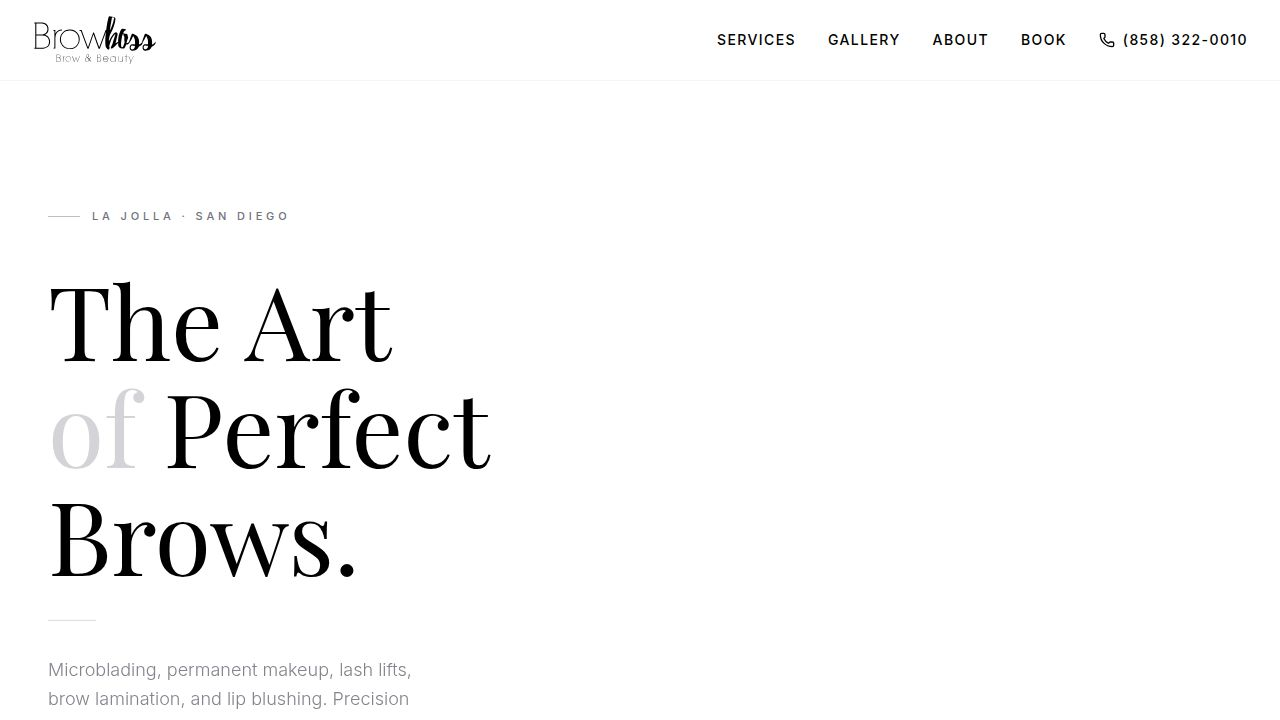
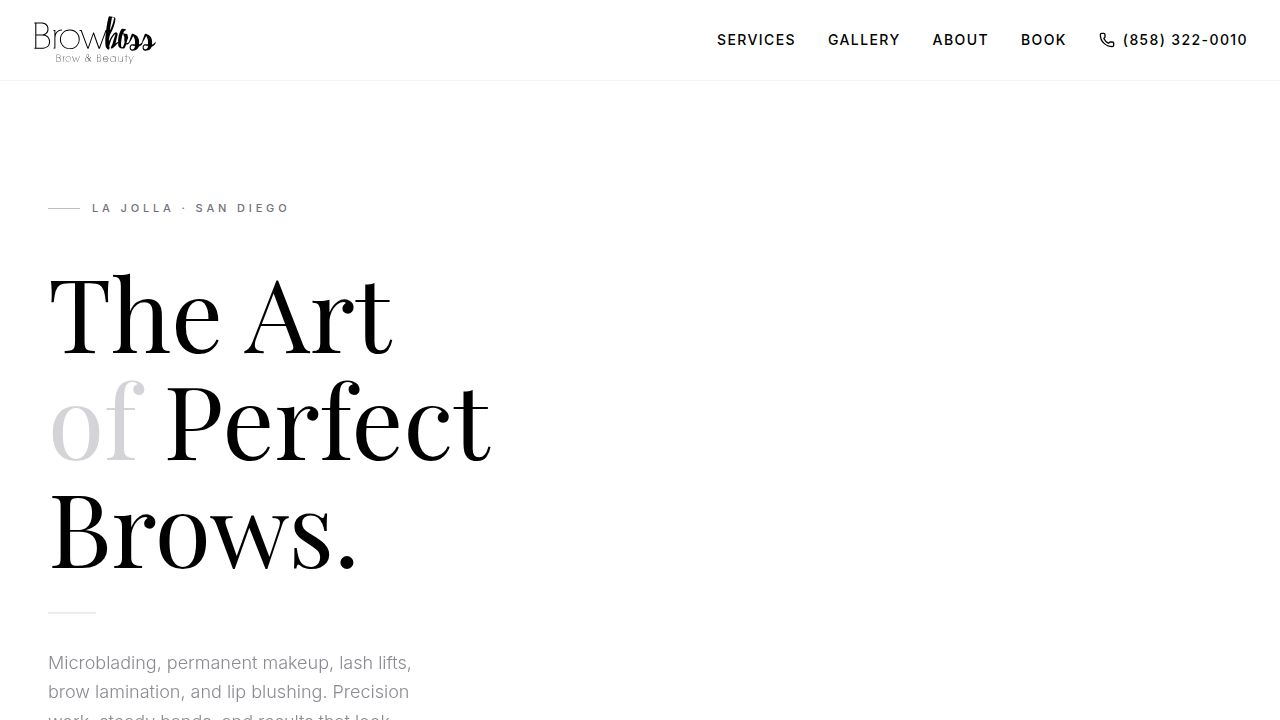
Adjust page spacing for a more compact and streamlined user experience
Refactors vertical spacing (padding and margins) across multiple sections of the Home page component, including Hero, Gallery, Quick Answers, Value Reframing, How It Works, Testimonials, Meet Leslie, Our Team, Before & After, and Booking Form.

Replit-Commit-Author: Agent
Replit-Commit-Session-Id: 6d369fb7-a3c6-4969-a9a1-9ee3432af596
Replit-Commit-Checkpoint-Type: full_checkpoint
Replit-Commit-Event-Id: 91043f61-a8aa-4c93-9887-f63268fadeda
Replit-Commit-Screenshot-Url: https://storage.googleapis.com/screenshot-production-us-central1/9047f072-fbae-419b-81c4-e96a671a53f7/6d369fb7-a3c6-4969-a9a1-9ee3432af596/75mzmba
Replit-Helium-Checkpoint-Created: true

diff --git a/artifacts/browboss/src/pages/Home.tsx b/artifacts/browboss/src/pages/Home.tsx
@@ -134,7 +134,7 @@ function HeroSection({ bookingUrl }: { bookingUrl: string }) {
   }, []);
 
   return (
-    <section className="relative min-h-[52vh] md:min-h-[calc(100dvh-80px)] flex items-center md:items-end overflow-hidden bg-white md:mt-[80px]" data-testid="hero-section">
+    <section className="relative min-h-[52vh] md:min-h-[calc(100dvh-72px)] flex items-center md:items-end overflow-hidden bg-white md:mt-[72px]" data-testid="hero-section">
 
       {/* ── MOBILE posters: static frames cycling ── */}
       <img
@@ -772,7 +772,7 @@ export default function Home() {
       </section>
 
       {/* Work Showcase — Vertical Video Reels */}
-      <section id="gallery" className="py-20 md:py-32 bg-white overflow-hidden border-t border-zinc-100">
+      <section id="gallery" className="py-14 md:py-20 bg-white overflow-hidden border-t border-zinc-100">
 
         {/* Header */}
         <div className="container mx-auto px-6 md:px-10 mb-10 md:mb-14">
@@ -895,7 +895,7 @@ export default function Home() {
       </section>
 
       {/* Quick Answers */}
-      <section className="py-20 md:py-28 bg-[#F5F1EC]">
+      <section className="py-14 md:py-20 bg-[#F5F1EC]">
         <div className="container mx-auto px-4 max-w-5xl">
           <motion.div
             initial="hidden"
@@ -949,7 +949,7 @@ export default function Home() {
       </section>
 
       {/* Value Reframing */}
-      <section className="py-24 md:py-32 bg-[#F5F1EC]">
+      <section className="py-16 md:py-24 bg-[#F5F1EC]">
         <div className="container mx-auto px-4">
           <div className="grid md:grid-cols-2 gap-16 items-center">
             <motion.div 
@@ -1001,14 +1001,14 @@ export default function Home() {
       </section>
 
       {/* How It Works */}
-      <section className="py-24 md:py-32 bg-white">
+      <section className="py-16 md:py-24 bg-white">
         <div className="container mx-auto px-4">
           <motion.div 
             initial="hidden"
             whileInView="visible"
             viewport={{ once: true, margin: "-100px" }}
             variants={fadeIn}
-            className="text-center mb-20"
+            className="text-center mb-12 md:mb-16"
           >
             <h2 className="text-4xl md:text-5xl font-serif mb-4">Your BrowBoss Experience</h2>
             <div className="w-12 h-px bg-black mx-auto"></div>
@@ -1041,14 +1041,14 @@ export default function Home() {
       </section>
 
       {/* Testimonials */}
-      <section className="py-24 md:py-32 bg-white border-t border-zinc-100" style={{ backgroundColor: "#FAFAF9" }}>
+      <section className="py-16 md:py-24 bg-white border-t border-zinc-100" style={{ backgroundColor: "#FAFAF9" }}>
         <div className="container mx-auto px-4">
           <motion.div 
             initial="hidden"
             whileInView="visible"
             viewport={{ once: true, margin: "-100px" }}
             variants={fadeIn}
-            className="text-center mb-20"
+            className="text-center mb-12 md:mb-16"
           >
             <p className="text-[10px] tracking-[0.35em] uppercase text-zinc-400 mb-3">Client Stories</p>
             <h2 className="text-4xl md:text-5xl font-serif text-black mb-4">Loved by Hundreds of Women Across San Diego</h2>
@@ -1154,7 +1154,7 @@ export default function Home() {
       </section>
 
       {/* Meet Leslie */}
-      <section id="about" className="py-24 md:py-32 bg-white">
+      <section id="about" className="py-16 md:py-24 bg-white">
         <div className="container mx-auto px-4">
           <div className="grid md:grid-cols-2 gap-16 items-center">
             <motion.div 
@@ -1202,14 +1202,14 @@ export default function Home() {
       </section>
 
       {/* Our Team */}
-      <section className="py-20 md:py-28 bg-zinc-50 border-t border-zinc-100">
+      <section className="py-14 md:py-20 bg-zinc-50 border-t border-zinc-100">
         <div className="container mx-auto px-4">
           <motion.div
             initial="hidden"
             whileInView="visible"
             viewport={{ once: true, margin: "-100px" }}
             variants={fadeIn}
-            className="text-center mb-16"
+            className="text-center mb-10 md:mb-14"
           >
             <p className="text-[10px] tracking-[0.35em] uppercase text-zinc-400 mb-3">The Artists</p>
             <h2 className="text-4xl md:text-5xl font-serif mb-4">Our Team</h2>
@@ -1249,14 +1249,14 @@ export default function Home() {
       </section>
 
       {/* Before & After */}
-      <section id="transformations" className="py-24 md:py-32 bg-white">
+      <section id="transformations" className="py-16 md:py-24 bg-white">
         <div className="container mx-auto px-4">
           <motion.div
             initial="hidden"
             whileInView="visible"
             viewport={{ once: true, margin: "-100px" }}
             variants={fadeIn}
-            className="text-center mb-16"
+            className="text-center mb-10 md:mb-14"
           >
             <p className="text-[10px] tracking-[0.35em] uppercase text-zinc-400 mb-3">Real Results</p>
             <h2 className="text-4xl md:text-5xl font-serif mb-4">Before & After</h2>
@@ -1330,7 +1330,7 @@ export default function Home() {
       </section>
 
       {/* Booking Form */}
-      <section className="py-24 md:py-32 bg-white">
+      <section className="py-16 md:py-24 bg-white">
         <div className="container mx-auto px-4">
           <div className="max-w-xl mx-auto">
             <motion.div 